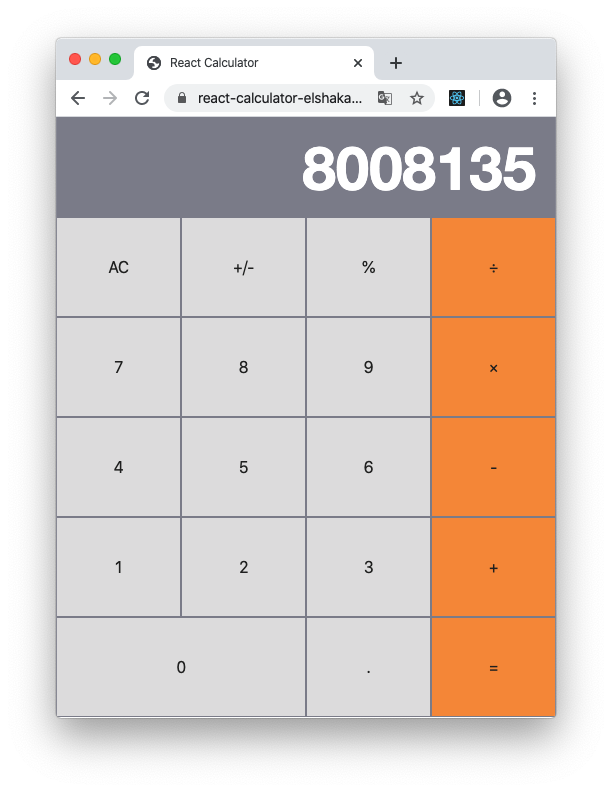
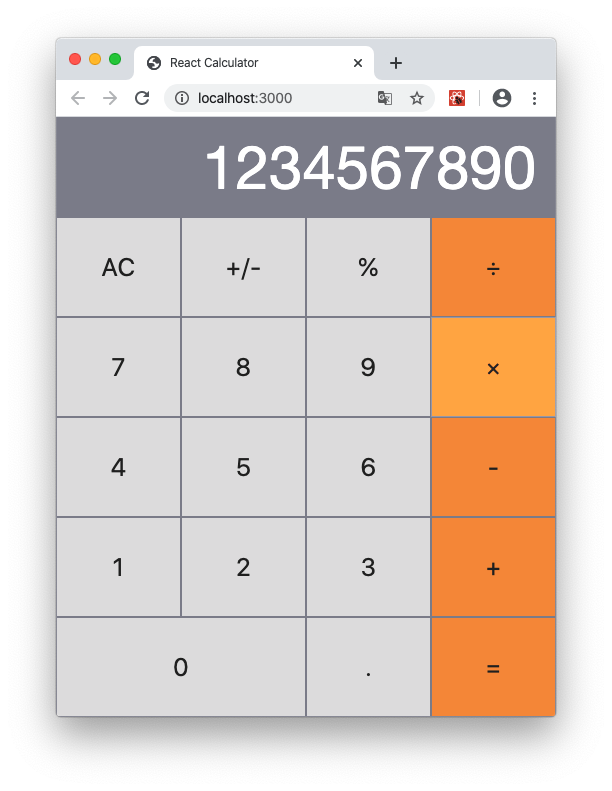
Minor styling tweaks

diff --git a/src/styles/app.css b/src/styles/app.css
@@ -9,7 +9,6 @@
   box-sizing: border-box;
   font-family: "Helvetica Neue", Helvetica, Arial, sans-serif;
   font-size: 60px;
-  font-weight: bold;
   text-align: right;
   padding: 20px;
   color: #fff;
@@ -17,6 +16,7 @@
   border: none;
   height: 100px;
   width: 100%;
+  overflow: hidden;
 }
 
 .ButtonRow {
@@ -28,6 +28,7 @@
   height: 100px;
   background-color: #f5913e;
   flex-basis: 25%;
+  font-size: 25px;
 }
 
 .Button:hover {
